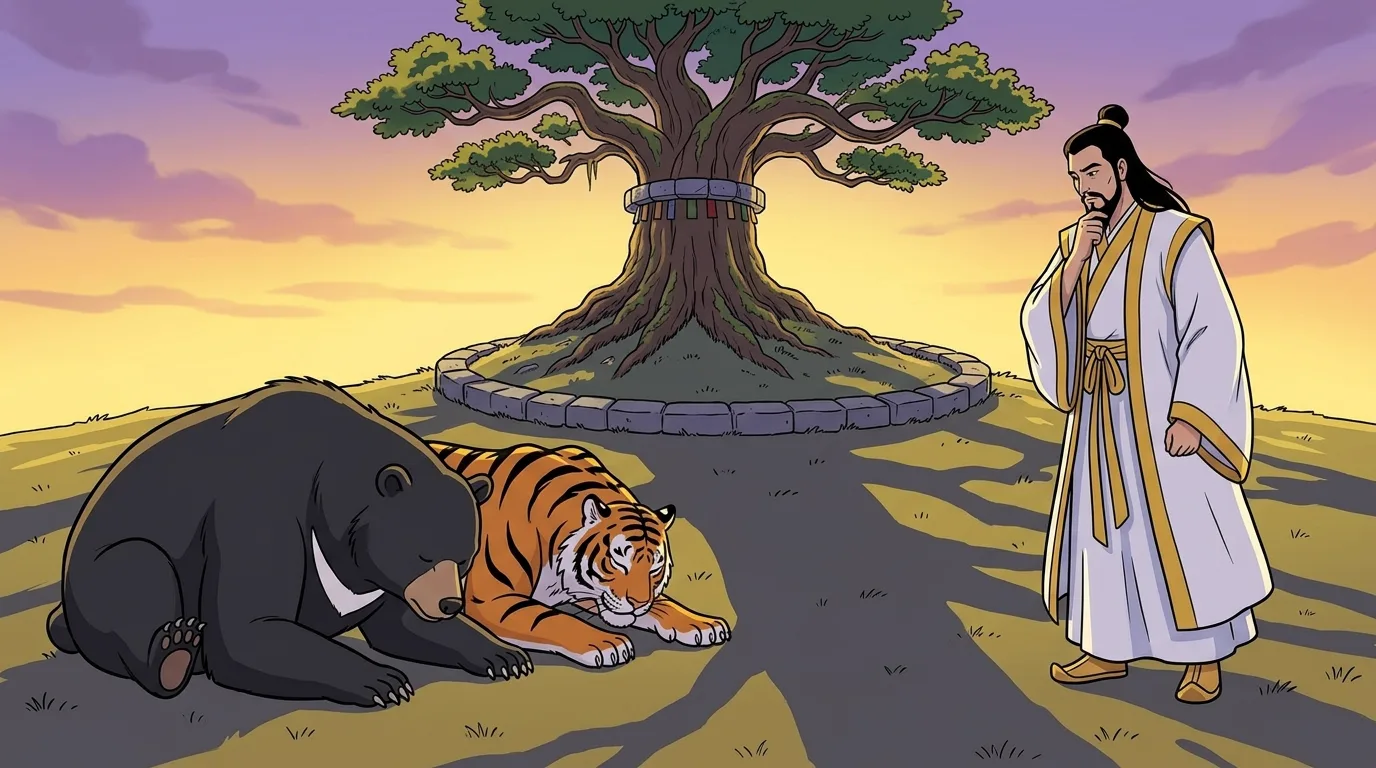
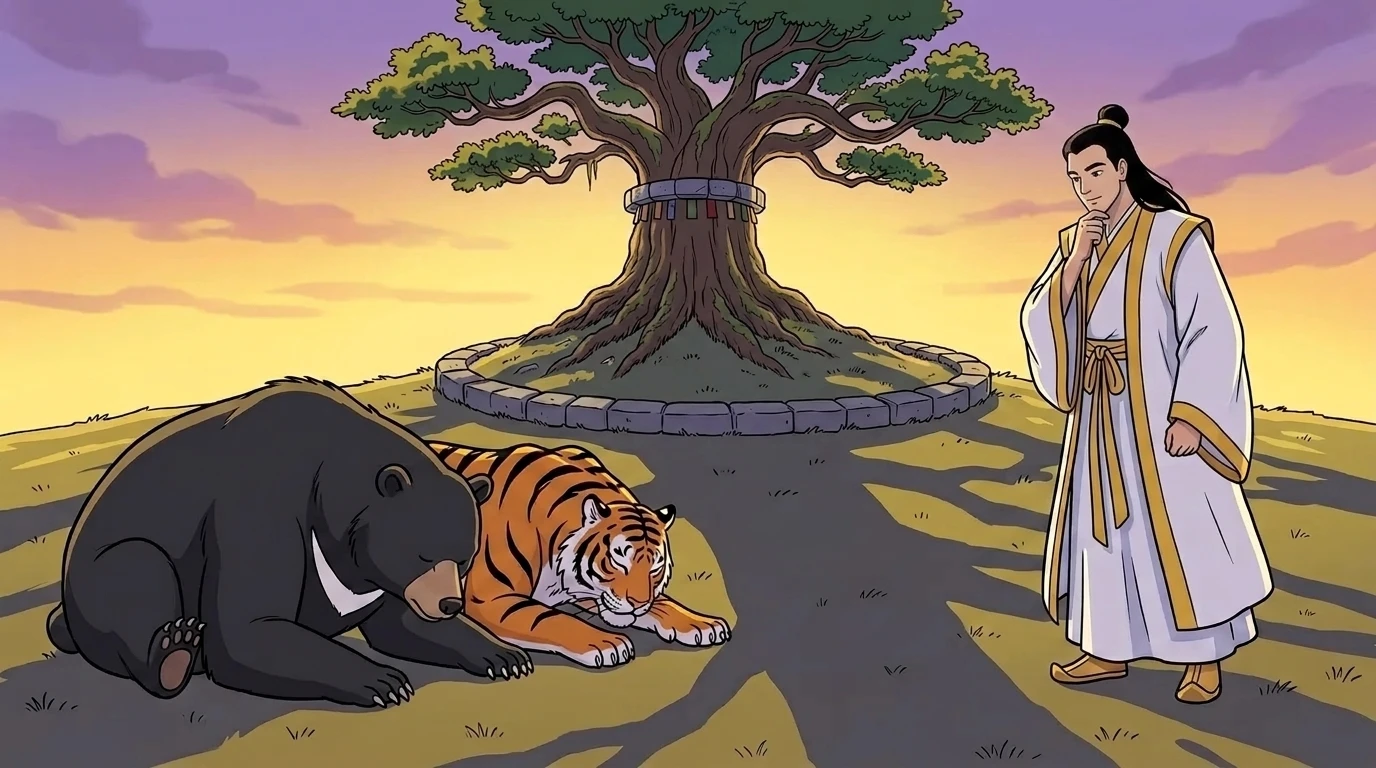
남았던 두 장도 해결 — 열 해결, 열셋 남음
들쥐와 손톱 03-rat  **쥐가 한 마리만 남았다.** 담 밑 구멍도 비었고
                    가운데 그림자도 사라졌다
단군 05-two         **수염이 사라졌다.** 06과 같은 사람으로 보인다.
                    06만 고쳐져 어긋났던 것이 맞춰졌다

이번에는 진짜 webp로 왔다. 다시 만들 필요가 없었다.

    그림 925장 · 진짜 webp 925 · 가짜 0 · png 0
    없는 그림 0 · 안 쓰는 그림 0 · 겹친 그림 0

남은 열셋은 주문서에 그대로 있다. 금도끼 09·10, 방귀 며느리 05·06,
청개구리 05·06, 은혜 갚은 까치 05·06, 도깨비 감투 16,
박혁거세 02·03·11, 할미꽃 10, 흥부전 01-b, 그늘 산 사람 10·11,
혹부리 12, 호랑이 속인 토끼 01.

diff --git a/learning/literacy-numeracy/story-books/korea-tales/ORDER-TO-GEMINI.md b/learning/literacy-numeracy/story-books/korea-tales/ORDER-TO-GEMINI.md
@@ -500,7 +500,7 @@
 
 ---
 
-# 받은 것 확인 (2026-08-30) — 여덟은 해결, 열넷 남았습니다
+# 받은 것 확인 (2026-08-30) — 열은 해결, 열셋 남았습니다
 
 새 그림 열다섯 장 받았습니다. **또 이름만 webp고 속은 JPEG**였습니다.
 다시 만들어 넣었습니다. 다음부터는 진짜 webp로 주시면 좋겠습니다.
@@ -522,8 +522,6 @@
 
 | 자리 | 무엇이 |
 |---|---|
-| `deuljwi-sontop` 03-rat | **새로 주셨는데 아직 쥐가 두 마리입니다.** 담 구멍에서 나오는 쥐 하나, 마당에서 손톱을 먹는 쥐 하나. 가운데 그림자까지 셋으로 보입니다. **한 마리만** 그려 주십시오. 그 한 마리가 손톱을 먹고 사람이 되는 이야기입니다 |
-| `dangun` 05-two | **06만 고쳐져서 05와 어긋났습니다.** 05의 환웅은 아직 수염 난 상투 어른입니다. 06과 같은 젊은 얼굴로 |
 | `geumdokki-eundokki` 09-copy · 10-greedy | 욕심쟁이가 딴사람 (07-iron은 주셨는데 09·10이 아직) |
 | `banggwi-myeoneuri` 05-boom · 06-fly | 같은 그림 |
 | `cheonggaeguri` 05-sick · 06-plan | 같은 그림 |
@@ -537,3 +535,13 @@
 | `geuneul-san-saram` 10-beg · 11-return | 부자가 딴사람 |
 | `hokburi-yeonggam` 12-two | 혹 둘이 안 보임 |
 | `horangi-sogin-tokki` 01-caught | 앞발로 누르지 않음 |
+
+
+## 04:35에 받은 두 장 — 둘 다 해결됐습니다 ✔
+
+| 자리 | 확인한 것 |
+|---|---|
+| `deuljwi-sontop` 03-rat | **쥐가 한 마리만 남았습니다.** 담 밑 구멍도 비었고 가운데 그림자도 사라졌습니다 |
+| `dangun` 05-two | **수염이 사라졌습니다.** 06과 같은 사람으로 보입니다 |
+
+이번에는 **진짜 webp로 주셨습니다.** 고맙습니다. 앞으로도 그렇게 부탁드립니다.
